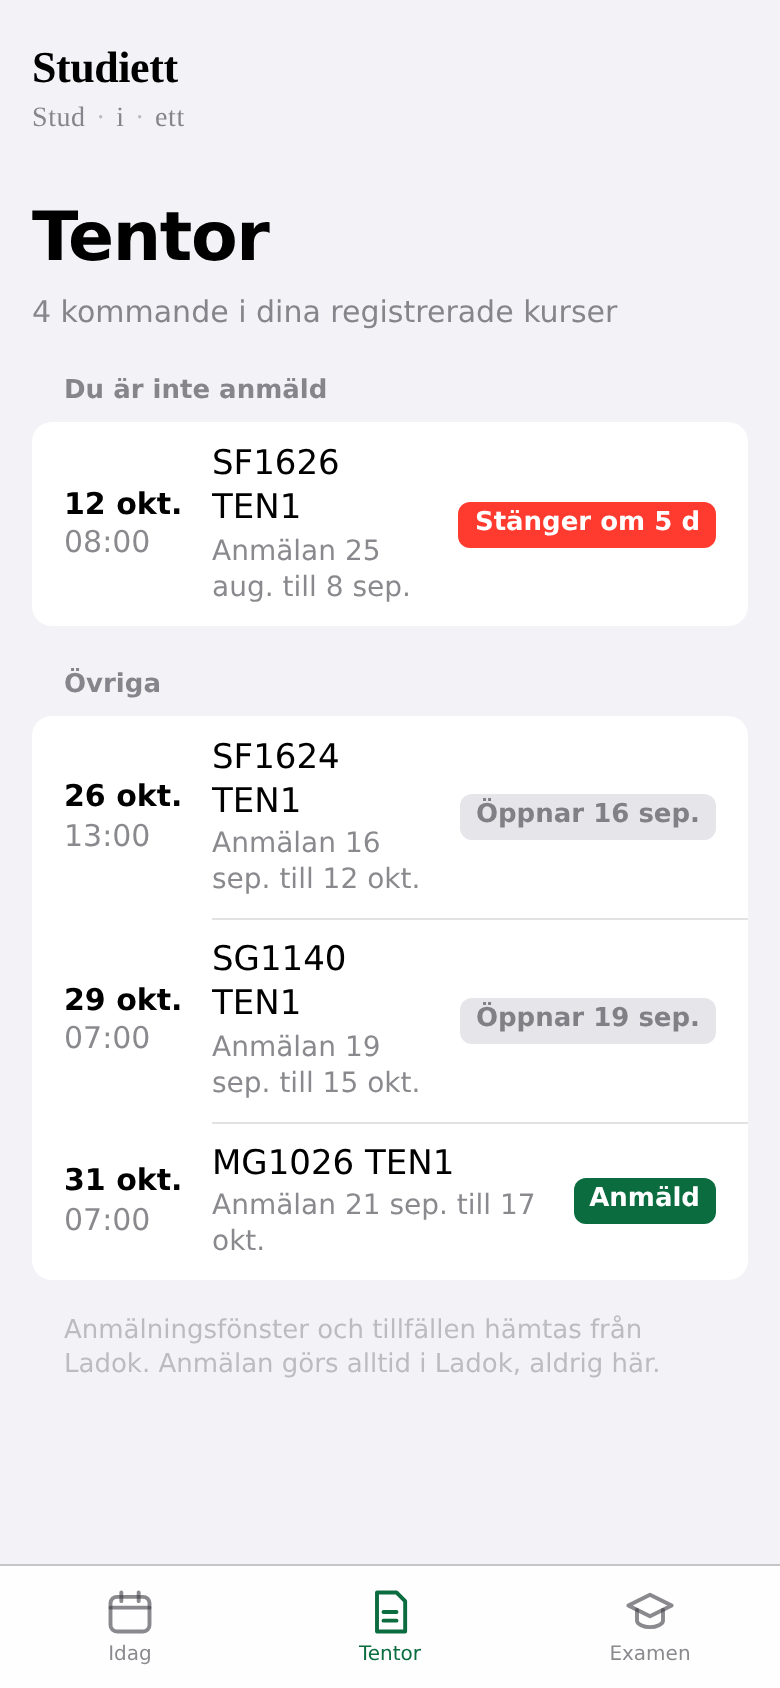
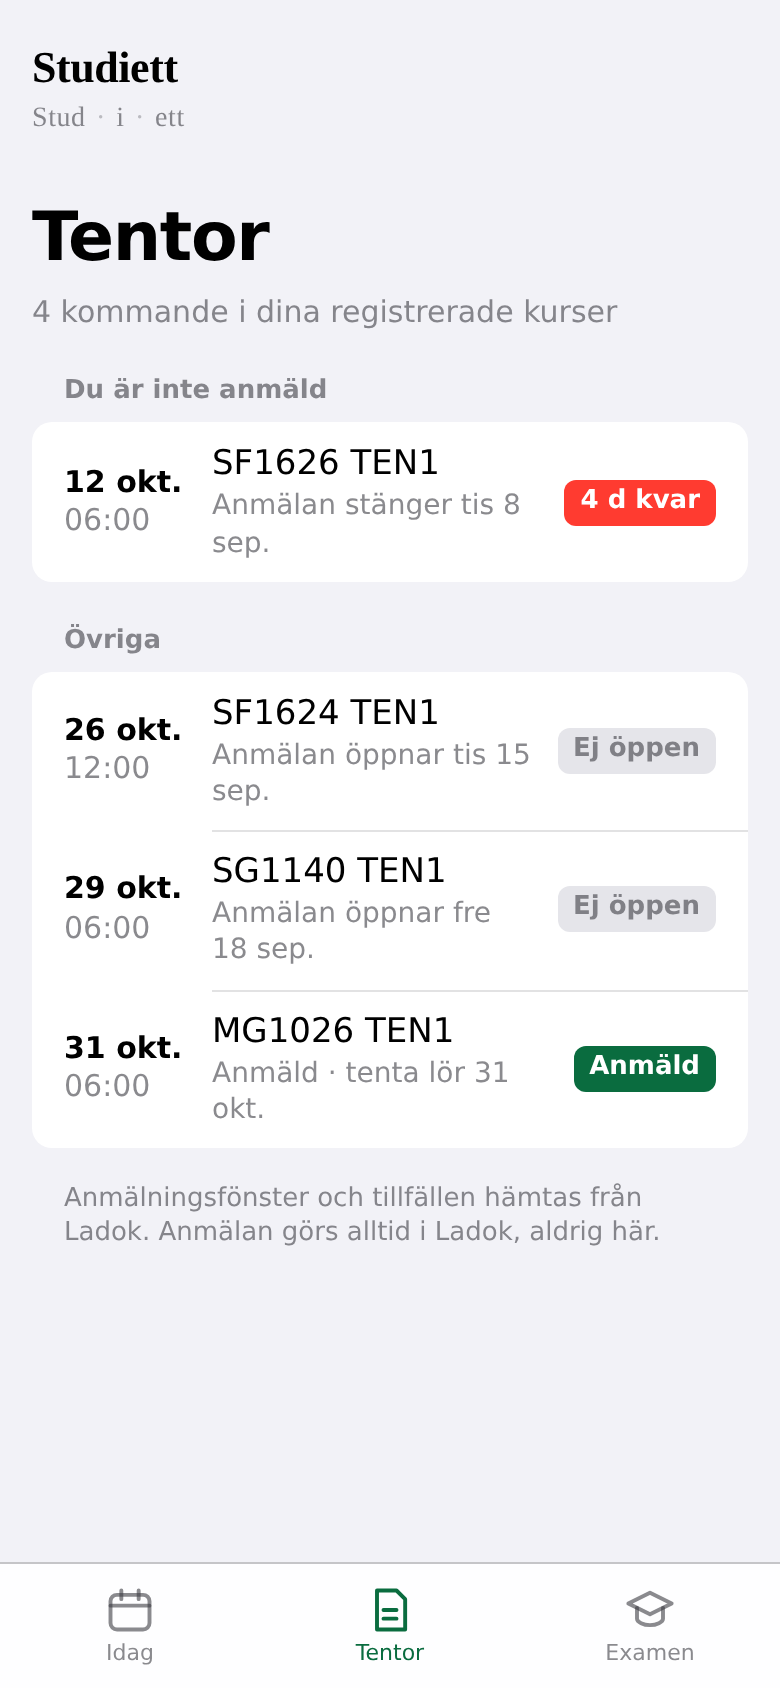
Fix HIG review findings in the three views
Review against .claude/skills/apple-design references (accessibility,
color, layout, typography, dark-mode, motion) on 390 pt screenshots in
light and dark mode.

- Dark mode: white text on the tint-filled button and "Anmäld" badge was
  2.7:1. New --on-tint token (white light, black dark) gives 7.9:1.
- Footnotes used --label-3 (1.7:1 light). They are real text; now --label-2.
  DESIGN.md restricts --label-3 to separators and inactive elements.
- Secondary text sits at 3.4:1 in light mode, which HIG allows only with
  an increased-contrast scheme. Added prefers-contrast: more with the
  system colours' high-contrast variants and lifted label alphas.
- Tab bar labels raised from 10 to 11 px, the HIG minimum on mobile.
- Long course names clipped horizontally; titles now break words and
  hyphenate, and the rest row stacks its status badge under the text.
- Exam rows: shorter trailing badges so course codes no longer wrap
  mid-line; dates moved into the subtitle.
- Screen readers: replaced aria-live on <main> with focus management on
  tab change, so each view is announced once.

Deviation kept, documented in DESIGN.md: --tint is used both for
interactive elements and for "done" status (progress bar, "Anmäld"),
which HIG Color advises against. Product decision, not changed here.

Claude-Session: https://claude.ai/code/session_01MwVUTnYwCzfCJEt6mJQVwJ

diff --git a/web/styles.css b/web/styles.css
@@ -8,7 +8,9 @@
   --label-3: rgba(60, 60, 67, .3);
   --separator: rgba(60, 60, 67, .29);
   --tint: #0A6C3F;
+  --on-tint: #FFFFFF;
   --danger: #FF3B30;
+  --on-danger: #FFFFFF;
   --warn: #FF9500;
   --radius: 10px;
   --gutter: 16px;
@@ -26,9 +28,34 @@
     --label-3: rgba(235, 235, 245, .3);
     --separator: rgba(84, 84, 88, .6);
     --tint: #30B46E;
+    --on-tint: #000000;
     --danger: #FF453A;
     --warn: #FF9F0A;
   }
+}
+/* Ökad kontrast (HIG Accessibility): systemfärgernas högkontrastvarianter. */
+@media (prefers-contrast: more) {
+  :root {
+    --label-2: rgba(60, 60, 67, .8);
+    --label-3: rgba(60, 60, 67, .55);
+    --separator: rgba(60, 60, 67, .5);
+    --tint: #248A3D;
+    --danger: #D70015;
+    --warn: #C93400;
+  }
+  .badge.is-warn { color: #fff; }
+}
+@media (prefers-contrast: more) and (prefers-color-scheme: dark) {
+  :root {
+    --label-2: rgba(235, 235, 245, .8);
+    --label-3: rgba(235, 235, 245, .55);
+    --separator: rgba(84, 84, 88, .9);
+    --tint: #30DB5B;
+    --danger: #FF6961;
+    --on-danger: #000000;
+    --warn: #FFB340;
+  }
+  .badge.is-warn { color: #000; }
 }
 
 * { box-sizing: border-box; }
@@ -68,6 +95,7 @@ a { color: var(--tint); text-decoration: none; }
 .pronounce span { color: var(--label-3); margin: 0 .1em; }
 
 main { padding: 0 var(--gutter); }
+main:focus { outline: none; }
 
 .large-title {
   font-size: 2.125rem; /* 34 */
@@ -114,7 +142,7 @@ main { padding: 0 var(--gutter); }
   margin-top: 12px;
   padding: 0 16px;
   background: var(--tint);
-  color: #fff;
+  color: var(--on-tint);
   border-radius: 10px;
   font-weight: 600;
 }
@@ -159,7 +187,7 @@ main { padding: 0 var(--gutter); }
 .row .time { font-size: .9375rem; color: var(--label-2); font-variant-numeric: tabular-nums; }
 .row .time strong { display: block; color: var(--label); font-weight: 600; }
 .row .main { min-width: 0; }
-.row .title { font-weight: 500; display: -webkit-box; -webkit-line-clamp: 2; -webkit-box-orient: vertical; overflow: hidden; }
+.row .title { font-weight: 500; display: -webkit-box; -webkit-line-clamp: 2; -webkit-box-orient: vertical; overflow: hidden; overflow-wrap: break-word; hyphens: auto; }
 a.row { color: inherit; }
 .row .sub { font-size: .875rem; color: var(--label-2); margin-top: 1px; }
 .row .badge {
@@ -171,9 +199,12 @@ a.row { color: inherit; }
   color: var(--label-2);
   white-space: nowrap;
 }
-.badge.is-danger { background: var(--danger); color: #fff; }
+.badge.is-danger { background: var(--danger); color: var(--on-danger); }
 .badge.is-warn { background: var(--warn); color: #000; }
-.badge.is-ok { background: var(--tint); color: #fff; }
+.badge.is-ok { background: var(--tint); color: var(--on-tint); }
+/* Rad med långt namn: statusen ligger under texten istället för i en tredje kolumn. */
+.row-stacked { grid-template-columns: 62px 1fr; }
+.row-stacked .badge { display: inline-block; margin-top: 6px; }
 
 /* Examen */
 .progress {
@@ -201,7 +232,7 @@ a.row { color: inherit; }
 }
 .empty strong { display: block; color: var(--label); font-weight: 600; margin-bottom: 4px; }
 
-.footnote { font-size: .8125rem; color: var(--label-3); margin: 18px var(--gutter) 0; }
+.footnote { font-size: .8125rem; color: var(--label-2); margin: 18px var(--gutter) 0; }
 
 /* Tab bar */
 .tabbar {
@@ -224,7 +255,7 @@ a.row { color: inherit; }
   min-height: 44px;
   padding: 4px 8px;
   color: var(--label-2);
-  font-size: .625rem;
+  font-size: .6875rem; /* 11, HIG-minimum */
   font-weight: 500;
 }
 .tab svg { width: 26px; height: 26px; fill: none; stroke: currentColor; stroke-width: 1.8; stroke-linecap: round; stroke-linejoin: round; }

diff --git a/web/app.js b/web/app.js
@@ -106,9 +106,18 @@ async function renderToday() {
 function examBadge(u) {
   switch (u.state) {
     case "registered": return `<span class="badge is-ok">Anmäld</span>`;
-    case "open": return `<span class="badge ${u.daysToClose <= 7 ? "is-danger" : ""}">Stänger ${u.daysToClose <= 0 ? "idag" : "om " + u.daysToClose + " d"}</span>`;
-    case "not_open": return `<span class="badge">Öppnar ${fmtShort(u.registrationOpens)}</span>`;
+    case "open": return `<span class="badge ${u.daysToClose <= 7 ? "is-danger" : ""}">${u.daysToClose <= 0 ? "Idag" : u.daysToClose + " d kvar"}</span>`;
+    case "not_open": return `<span class="badge">Ej öppen</span>`;
     case "missed": return `<span class="badge is-danger">Missad</span>`;
+  }
+}
+
+function examSub(u) {
+  switch (u.state) {
+    case "registered": return `Anmäld · tenta ${fmtDay(u.examDate)}`;
+    case "open": return `Anmälan stänger ${fmtDay(u.registrationCloses)}`;
+    case "not_open": return `Anmälan öppnar ${fmtDay(u.registrationOpens)}`;
+    case "missed": return `Anmälan stängde ${fmtDay(u.registrationCloses)}`;
   }
 }
 
@@ -118,7 +127,7 @@ function renderExamRow(u) {
       <div class="time"><strong>${fmtShort(u.examDate)}</strong>${fmtTime(u.examDate)}</div>
       <div class="main">
         <div class="title">${esc(u.course)} ${esc(u.module)}</div>
-        <div class="sub">Anmälan ${fmtShort(u.registrationOpens)} till ${fmtShort(u.registrationCloses)}</div>
+        <div class="sub">${esc(examSub(u))}</div>
       </div>
       ${examBadge(u)}
     </a>`;
@@ -165,13 +174,13 @@ async function renderDegree() {
     ${d.rests.length ? `
       <h3 class="group-title">Rester</h3>
       <div class="group">${d.rests.map(r => `
-        <div class="row">
+        <div class="row row-stacked">
           <div class="time"><strong>${r.missing.reduce((s, m) => s + m.hp, 0)} hp</strong>saknas</div>
           <div class="main">
-            <div class="title">${esc(r.code)} ${esc(r.name)}</div>
-            <div class="sub">${r.missing.map(m => esc(m.code)).join(", ")}${r.nextChance ? ` · nästa chans ${fmtDay(r.nextChance.examDate)}` : " · inget tillfälle publicerat"}</div>
+            <div class="title">${esc(r.name)}</div>
+            <div class="sub">${esc(r.code)} · ${r.missing.map(m => esc(m.code)).join(", ")}${r.nextChance ? ` · nästa chans ${fmtDay(r.nextChance.examDate)}` : " · inget tillfälle publicerat"}</div>
+            ${r.nextChance ? `<span class="badge ${r.nextChance.registered ? "is-ok" : "is-warn"}">${r.nextChance.registered ? "Anmäld" : "Ej anmäld"}</span>` : ""}
           </div>
-          ${r.nextChance ? `<span class="badge ${r.nextChance.registered ? "is-ok" : "is-warn"}">${r.nextChance.registered ? "Anmäld" : "Ej anmäld"}</span>` : "<span></span>"}
         </div>`).join("")}</div>` : ""}
     <p class="footnote">Räknat på godkända moduler i Ladok. Nominell takt ${d.nominalPace} hp per termin.</p>`;
 }
@@ -193,6 +202,7 @@ async function go(tab) {
     view.innerHTML = `<div class="empty"><strong>Kunde inte hämta data</strong>${esc(e.message)}. Kontrollera att servern kör.</div>`;
   }
   window.scrollTo({ top: 0 });
+  view.focus({ preventScroll: true });
 }
 
 tabs.forEach(t => t.addEventListener("click", () => go(t.dataset.tab)));

diff --git a/web/index.html b/web/index.html
@@ -21,7 +21,7 @@
   <p class="pronounce" aria-label="Uttalas stud i ett">Stud <span>·</span> i <span>·</span> ett</p>
 </header>
 
-<main id="view" aria-live="polite"></main>
+<main id="view" tabindex="-1"></main>
 
 <nav class="tabbar" aria-label="Huvudnavigering">
   <button class="tab is-active" data-tab="today" aria-current="page">

diff --git a/docs/DESIGN.md b/docs/DESIGN.md
@@ -23,12 +23,15 @@ Semantiska namn. Ljust och mörkt läge via `prefers-color-scheme`.
 | `--surface-2` | #E5E5EA | #2C2C2E | Sekundära ytor |
 | `--label` | #000000 | #FFFFFF | Primär text |
 | `--label-2` | rgba(60,60,67,.6) | rgba(235,235,245,.6) | Sekundär text |
-| `--label-3` | rgba(60,60,67,.3) | rgba(235,235,245,.3) | Tertiär text, separatorer |
+| `--label-3` | rgba(60,60,67,.3) | rgba(235,235,245,.3) | Separatorer och inaktiva element. Aldrig läsbar text: 1,7:1 i ljust läge |
 | `--tint` | #0A6C3F | #30B46E | Studiett-grönt. Den enda varumärkesfärgen. Bara för interaktiva element och "klart"-status. |
+| `--on-tint` | #FFFFFF | #000000 | Text på tint-fyllda ytor. Vitt på det mörka tint-gröna ger 2,7:1; svart ger 7,9:1. |
 | `--danger` | #FF3B30 | #FF453A | iOS systemRed. Bara för "kostar dig en tentaomgång". |
 | `--warn` | #FF9500 | #FF9F0A | iOS systemOrange. Deadline inom 48 h. |
 
 Regel: `--tint` betyder alltid "tryckbar" eller "klart". Den används aldrig som dekoration.
+
+Ökad kontrast (`prefers-contrast: more`): `--label-2` och `--label-3` höjs till .8 respektive .55 i alfa, och tint/danger/warn byts till systemfärgernas högkontrastvarianter (grön #248A3D/#30DB5B, röd #D70015/#FF6961, orange #C93400/#FFB340). Sekundärtexten ligger annars på 3,4:1 i ljust läge, vilket HIG bara tillåter om ett högkontrastläge finns.
 
 ### Typografi
 
@@ -41,7 +44,8 @@ Regel: `--tint` betyder alltid "tryckbar" eller "klart". Den används aldrig som
 | Headline | 17 / 600 | Radrubrik |
 | Body | 17 / 400 | Brödtext |
 | Subhead | 15 / 400 | Sekundär rad |
-| Footnote | 13 / 400 | Tid, källa |
+| Footnote | 13 / 400 | Tid, källa, förklarande fotnot. Alltid i `--label-2`. |
+| Fliketikett | 11 / 500 | Bottenflikar. HIG-minimum på mobil är 11 pt. |
 
 Dynamic Type respekteras genom att allt sätts i `rem` och roten följer systemet.
 
